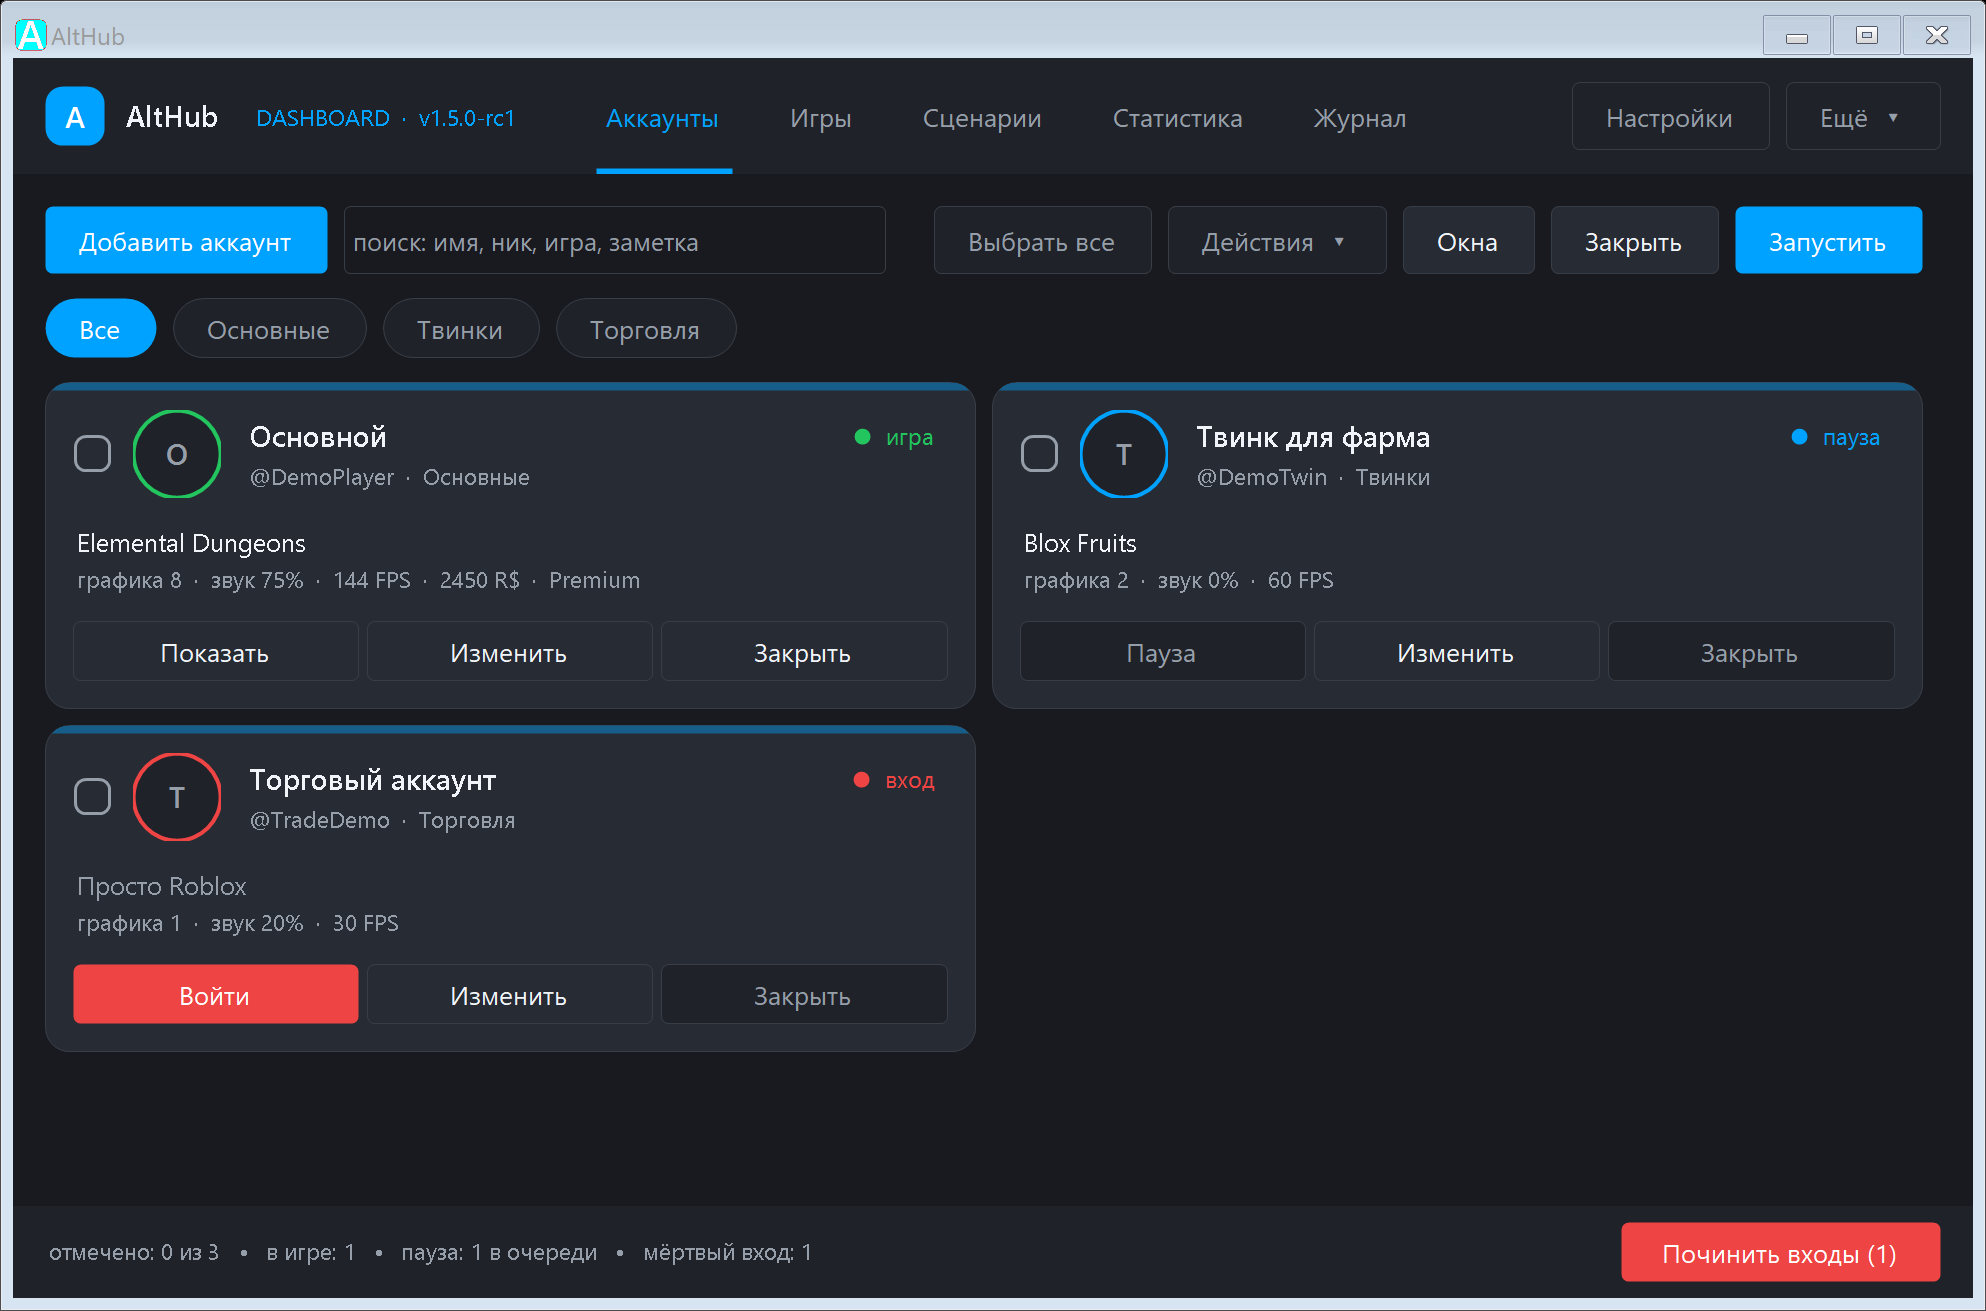
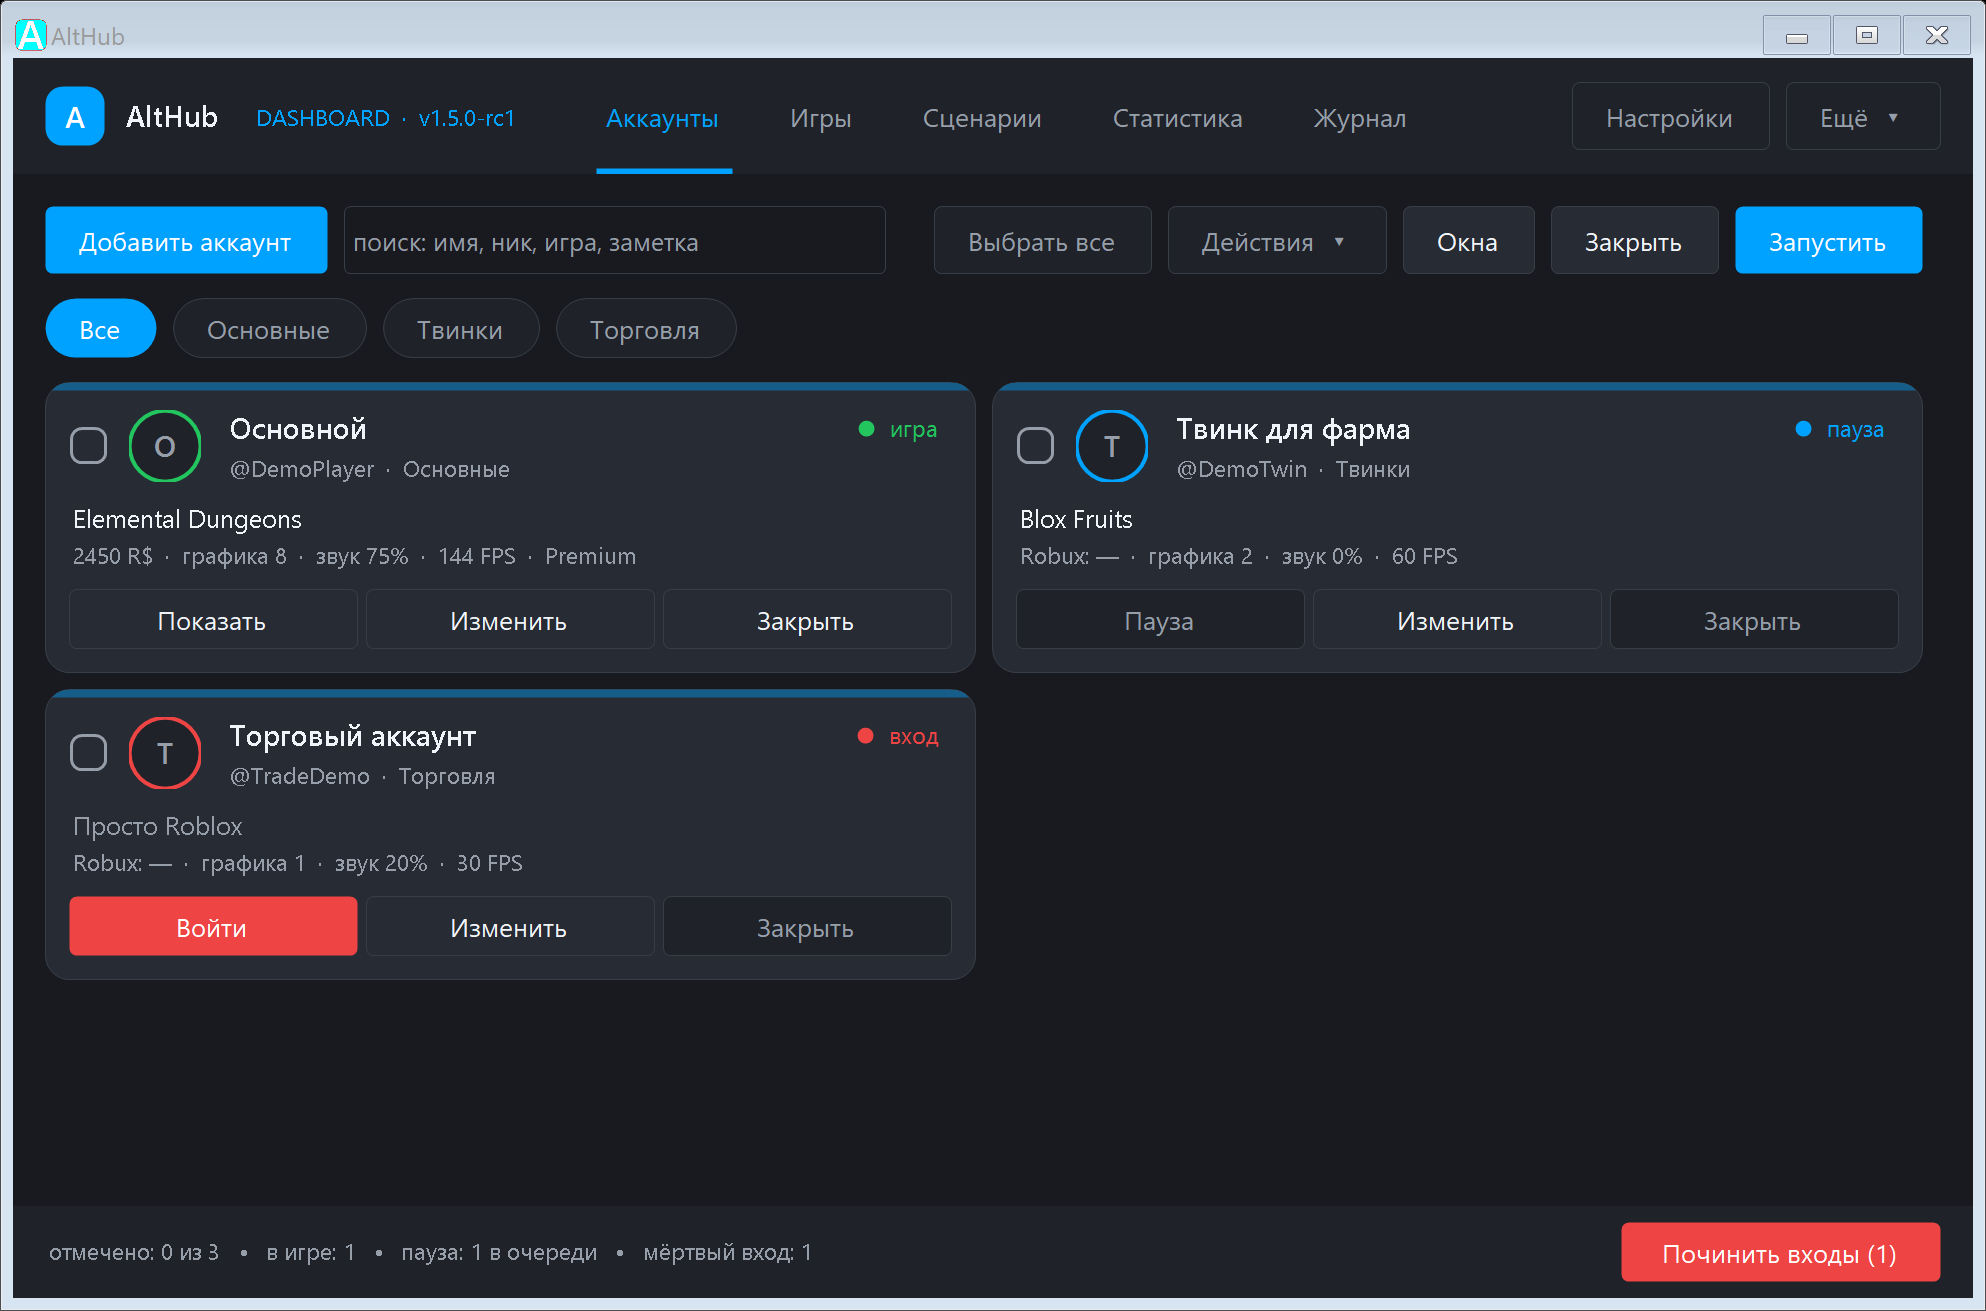
Fix Dashboard search, full-width Pulse and background account balances

diff --git a/README.md b/README.md
@@ -48,6 +48,22 @@
 
 ![Центр запуска 1.5](docs/launch-center.png)
 
+**Обновление RC от 9 октября 2026:** исправлены положение поиска и промежуток
+в статистике Dashboard. Строки Pulse остаются на всю ширину и стали выше;
+подпись автора — `dev by Ernest Kostevich`. Кнопки H₂O не раздуваются на узких
+карточках. Фоновая проверка входов снова обновляет Robux, Premium и дату
+регистрации без блокировки окна. Баланс виден также в компактном режиме;
+`Robux: —` означает, что значение ещё не получено. Отдельного переключателя
+баланса нет: нажми **Проверить входы**, чтобы его обновить. Ошибка запроса
+баланса не обнуляет прежнее значение и не помечает живой вход мёртвым.
+
+Это замена сборки в том же `v1.5.0-rc1`, не новый тег. Если скачивал RC раньше,
+скачай ZIP заново; его контрольная сумма изменилась. Папку `data` сохрани.
+
+![Dashboard — поиск в строке](docs/dashboard-search.png)
+![Dashboard — статистика без промежутка](docs/dashboard-statistics.png)
+![Pulse — строка в полный экран](docs/pulse-fullscreen.png)
+
 > **Исправлено в 1.4.1:** AltHub создаёт файл настроек Roblox на компьютерах,
 > где клиент сам его не создаёт. Пользователь подтвердил работу настроек на
 > проблемном ноутбуке после проверки тестовой сборки.
@@ -68,12 +84,12 @@
 
 Именно поэтому тут нечего нести на VirusTotal: нет ни одного `.exe`, чтобы
 антивирус мог на него ругаться. А чтобы не читать всё подряд — в комплекте
-есть **`Проверки\Самопроверка.ps1`**: 94 проверки, которые прогоняются одной кнопкой и
+есть **`Проверки\Самопроверка.ps1`**: 96 проверок, которые прогоняются одной кнопкой и
 среди прочего печатают полный список адресов, на которые программа вообще
 может обратиться, с причиной для каждого.
 
 ```
-Пройдено 94 из 94 — всё в порядке.
+Пройдено 96 из 96 — всё в порядке.
 ```
 
 **Одна оговорка, и она важная.** Начиная с 1.3 программа умеет скачать ровно
@@ -1316,7 +1332,7 @@ AltHub с этим справляется сам: он выбирает клие
 powershell -NoProfile -ExecutionPolicy Bypass -File "Проверки\Самопроверка.ps1"
 ```
 
-Прогонит 94 проверки: синтаксис всех файлов, оба режима шифрования (включая
+Прогонит 96 проверок: синтаксис всех файлов, оба режима шифрования (включая
 отказ на неверном пароле и на подмене байта в файле), поиск клиента, чтение
 хранилища входов, сборку строки запуска, разбор ссылок «Поделиться», раскладку
 окон, очередь запуска по порядку списка, номера аккаунтов в Int64, сборку всех
@@ -1328,7 +1344,7 @@ powershell -NoProfile -ExecutionPolicy Bypass -File "Проверки\Самоп
 в памяти. Твоя кука **не показывается**: выводятся только имена найденных кук
 и длина значений.
 
-Ожидаемый результат — «Пройдено 94 из 94».
+Ожидаемый результат — «Пройдено 96 из 96».
 
 Одна из них обмеряет **каждую подпись и кнопку** во всех окнах и падает,
 если текст не помещается, вылезает за край контейнера или налезает на соседа — чтобы обрезанные надписи не
